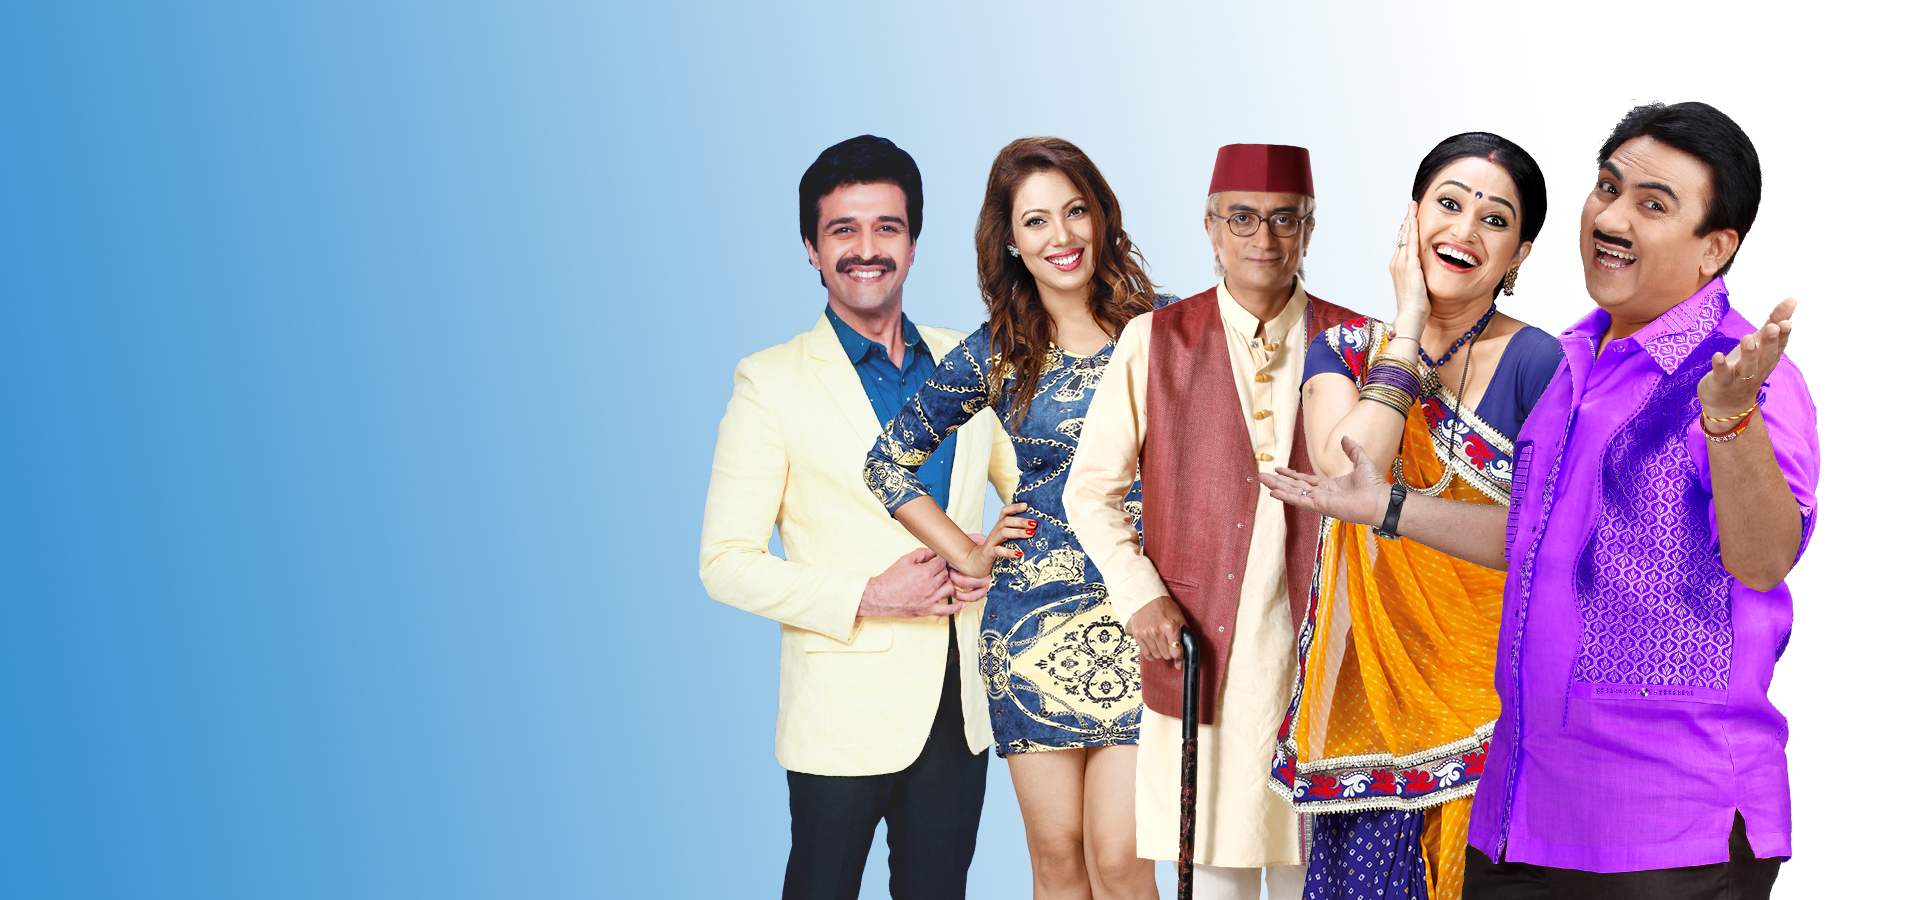
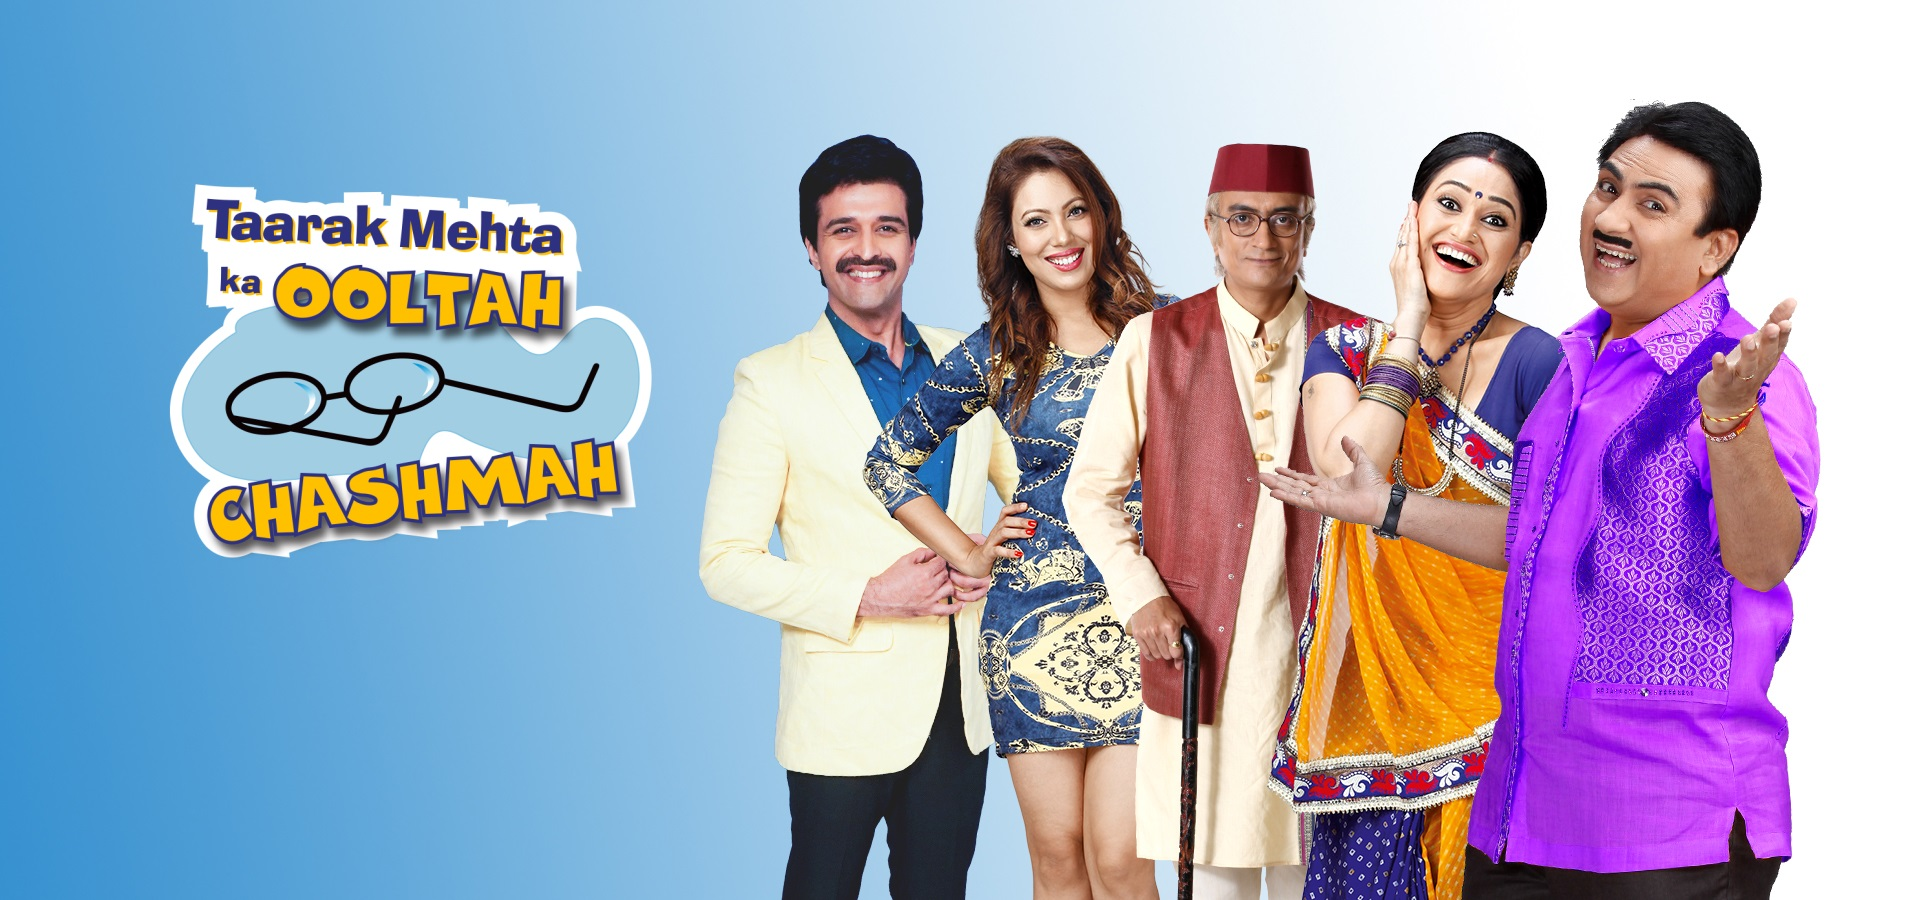
Add files via upload

diff --git a/WEBSITE04/style.css b/WEBSITE04/style.css
@@ -1,0 +1,154 @@
+body,
+html {
+    width: 85%;
+    height: 100%;
+    margin: 0px;
+}
+
+header {
+    z-index: 1;
+    position: fixed;
+    background-color: rgba(0, 0, 0, 0.4);
+}
+
+.navBar {
+    align-content: center;
+    display: inline-flex;
+    height: 3.125em;
+}
+
+.logo {
+    padding-left: 20px;
+    width: 60px;
+}
+
+button.subBtn {
+    float: left;
+    width: 147px;
+    height: 30px;
+    border: 1px solid rgb(14, 13, 13);
+    border-radius: 5px;
+    color: rgb(14, 13, 13);
+    position: relative;
+    background-color: skyblue;
+    padding: center;
+    margin-left: 20px;
+    margin-right: 0px;
+    margin-top: 20px;
+}
+
+.rectangle {
+    height: 50px;
+    width: 2px;
+    margin-top: 10px;
+    margin-left: 20px;
+    border-radius: 25%;
+    float: center;
+    /*
+  NOTE: color ye kar dena, abhi ke liye visiblity reasons ki wajah se dark daal rahe h
+  background-color: #7e79796c; 
+  */
+    background-color: #220000b7;
+}
+
+.btn1 {
+    position: relative;
+    margin-left: 2vw;
+    margin-top: 1.5vh;
+    /*
+    color: rgb(181, 178, 178); */
+    float: left;
+    font-family: Arial, Helvetica, sans-serif;
+    font-weight: 500;
+    display: block;
+    text-align: center;
+    padding: 18px 15px;
+    margin-top: 5px;
+    margin-bottom: 5px;
+    text-decoration: none;
+    font-size: 16px;
+    color: whitesmoke;
+}
+
+a.btn1::before {
+    margin-bottom: -17px;
+    content: '';
+    position: absolute;
+    width: 100%;
+    height: 3px;
+    border-radius: 4px;
+    background-color: #fff;
+    color: #fff;
+    text-decoration-color: #fff;
+    bottom: 0;
+    left: 0;
+    transform-origin: right;
+    transform: scaleX(0);
+    transition: transform .3s ease-in-out;
+}
+
+a.btn1:hover::before {
+    color: #fff;
+    transform-origin: left;
+    transform: scaleX(1);
+}
+
+.searchIcon {}
+
+.login {}
+
+.imgBg {
+    z-index: -1.0;
+    background-image: url("tmkoc.jpg");
+    background-position: center;
+    background-repeat: no-repeat;
+    background-size: cover;
+    height: 100%;
+    width: 100%;
+    position: absolute;
+}
+
+.logoText {}
+
+.subText {}
+
+.lowerBtns {
+    padding-left: 120px;
+    padding-top: 700px;
+}
+
+.btn2 {
+    font-size: 15px;
+    float: left;
+    width: 110px;
+    height: 55px;
+    border: 0px solid rgb(14, 13, 13);
+    border-radius: 0;
+    background-color: transparent;
+    color: #fff;
+    position: relative;
+}
+
+.btn3 {
+    font-size: larger;
+    font-weight: bold;
+    float: left;
+    width: 148px;
+    height: 42px;
+    border: 0px solid rgb(14, 13, 13);
+    border-radius: 14px;
+    color: rgb(14, 13, 13);
+    margin-left: 20px;
+    position: relative;
+}
+
+.btn4 {
+    float: left;
+    width: 100px;
+    height: 41px;
+    border: 0px solid rgb(14, 13, 13);
+    background-color: transparent;
+    border-radius: 5px;
+    color: #fff;
+    position: relative;
+}

diff --git a/WEBSITE04/index.html b/WEBSITE04/index.html
@@ -1,0 +1,62 @@
+<!DOCTYPE html>
+<html lang="en">
+
+<head>
+    <meta charset="UTF-8">
+    <meta http-equiv="X-UA-Compatible" content="IE=edge">
+    <meta name="viewport" content="width=device-width, initial-scale=1.0">
+    <title>Sonyliv Clone</title>
+    <link rel="stylesheet" href="https://cdnjs.cloudflare.com/ajax/libs/font-awesome/4.7.0/css/font-awesome.min.css">
+    <link rel="stylesheet" type="text/css" href="style.css">
+</head>
+
+<body>
+
+    <header>
+        <nav class="navBar">
+            <a><img class="logo" src="sonylivLogo.png"></a>
+            <button class="subBtn">Subscribe &#8250</button>
+            <div class="rectangle"></div>
+            <a class="btn1" href="a">MasterChef</a>
+            <a class="btn1" href="a">KBC</a>
+            <a class="btn1" href="a">Originals</a>
+            <a class="btn1" href="a">Sports</a>
+            <a class="btn1" href="a">TV</a>
+            <a class="btn1" href="a">WWE</a>
+            <a class="btn1" href="a">Movies</a>
+            <a class="btn1" href="a">New</a>
+            <a class="btn1" href="a">QOTY</a>
+            <a class="btn1" href="a">Premium</a>
+            <a class="searchIcon" href="a"><i class="fa fa-search" style="margin-left: 35px;margin-top: 15px;font-size: x-large;color: white;"></i></a>
+            <!--NOTE: search icon IONICONS se import karke use karna h yahan-->
+            <a class="login"><img style="    margin-top: 13px;
+                width: 35px;
+                height: 35px;
+                padding-right: 35px;
+                padding-left: 55px;" src="login.png"></a>
+        </nav>
+    </header>
+
+    <img class="imgBg" src="tmkoc.jpg" alt="">
+
+    <!-- NOTE: TMKOC text png churake upload kar dena-->
+
+    <div class="subText">
+        <p style="    position: fixed;
+        overflow: hidden;
+        padding-top: 650px;padding-left:130px;color: white;">Comedy | Hindi | 2008</p>
+    </div>
+
+    <div class="lowerBtns">
+        <button class="btn2">+<br>Add to My List</button>
+        <!--NOTE: plus icon IONICONS se import karke use karna h yahan-->
+        <button class="btn3">Play Now</button>
+        <button class="btn4"><img src="share_icon.png" alt="" style="
+            height: 22px;
+        "><br>Share</button>
+        <!--NOTE: share icon IONICONS se import karke use karna h yahan-->
+    </div>
+
+</body>
+
+</html>
